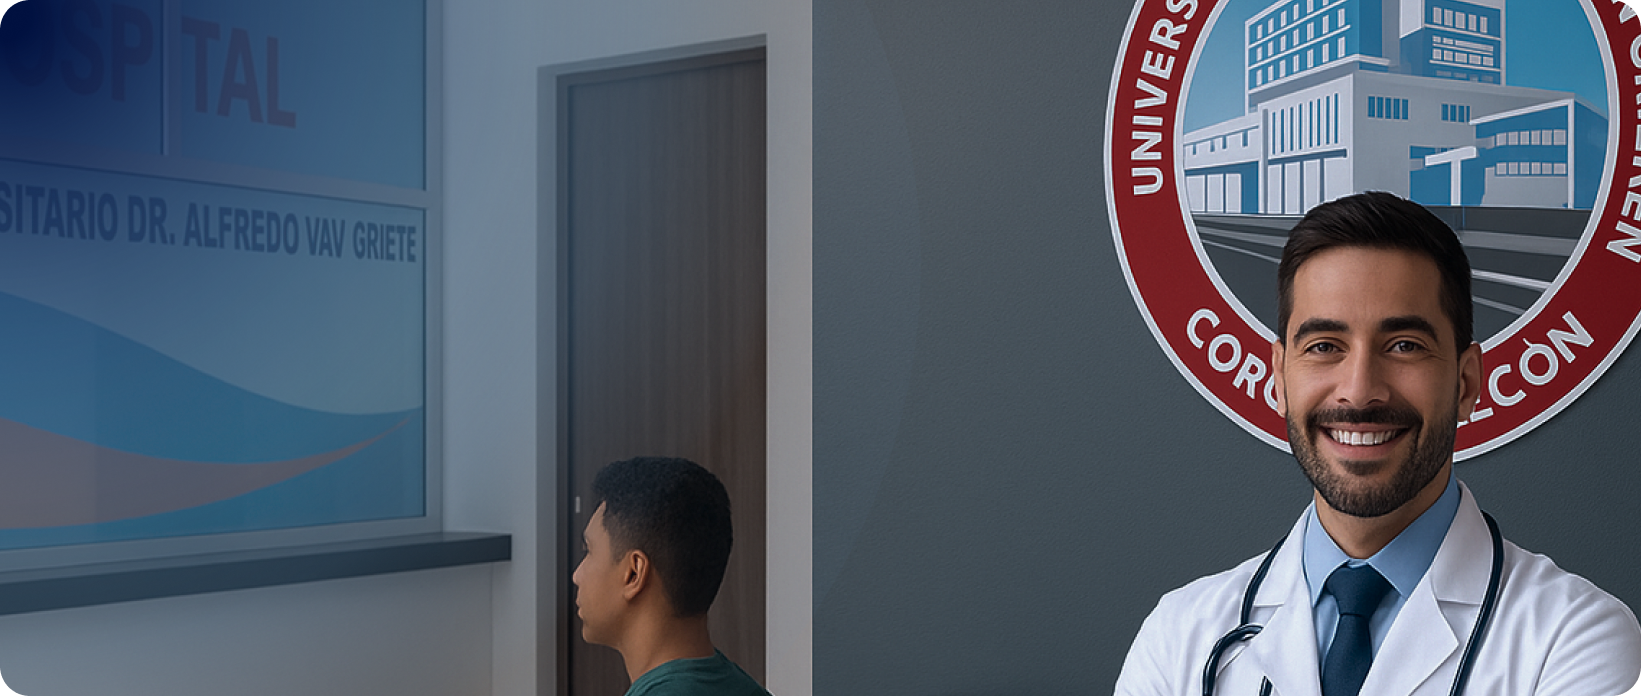
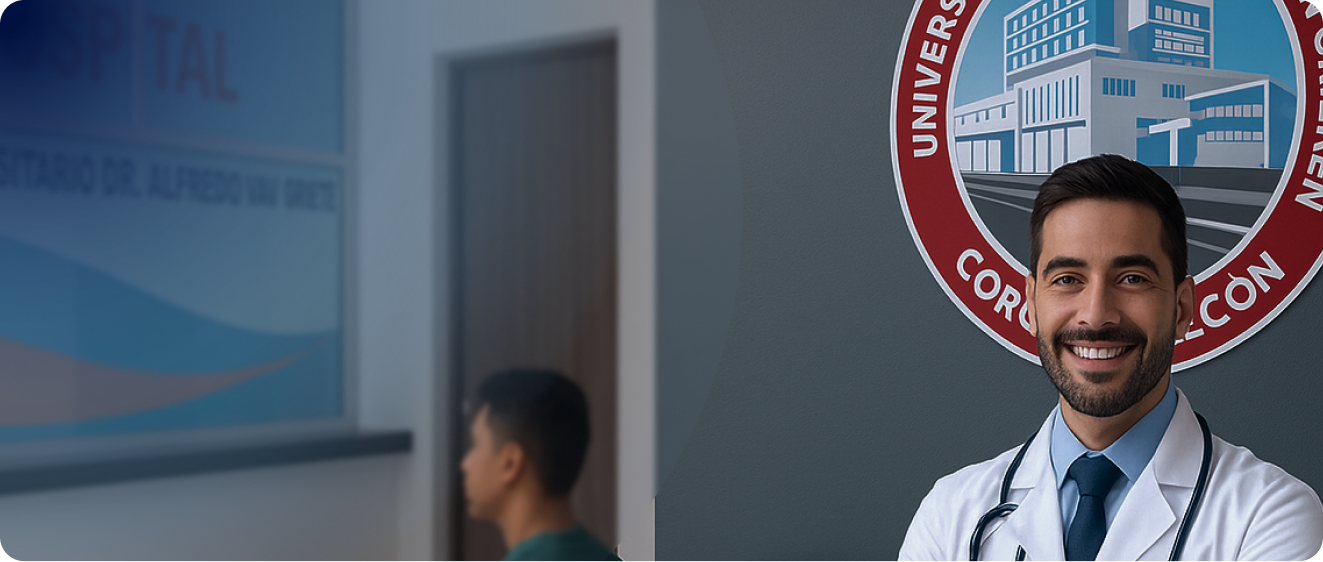
ni

diff --git a/resources/js/Pages/Appointments.svelte b/resources/js/Pages/Appointments.svelte
@@ -1,10 +1,28 @@
-<header>
-    <a href="#">
-        <img  src="/img/logoBlue.svg" alt="">
-        <span>SaludFalcón.org</span>
-    </a>
-    <h1>Reserva tu cita médica</h1>
-    <h2>En el Hospital Universitario Alfredo Van Grieken.</h2>
 
-    <img src="/img/hero.png" alt="">
-</header>
+<div class="p-5 lg:p-10 lg:pt-5">
+
+    <header class=" overflow-hidden h-fit relative w-full max-w-[1200px] mx-auto">
+        <div class="absolute top-0 left-0 z-10">
+            <a href="#">
+                <img  src="/img/logoBlue.svg" alt="">
+                <span>SaludFalcón.org</span>
+            </a>
+            <h1 class="text-white font-bold">Reserva tu 
+            
+                <div class="biggest-text">cita médica</div>
+            </h1>
+            <h2>En el Hospital Universitario Alfredo Van Grieken.</h2>
+
+        </div>
+    
+        <img src="/img/hero.png" class=" h-[400px] w-full max-w-[1200px] rounded-2xl object-cover" alt="">
+        <img src="/img/onlyDoctor.png" class="z-50 absolute top-0 left-0 h-[400px] w-full max-w-[1200px] rounded-2xl object-cover" alt="">
+
+    </header>
+</div>
+
+<style>
+    .biggest-text {
+        font-size: 12vw;
+    }
+</style>
